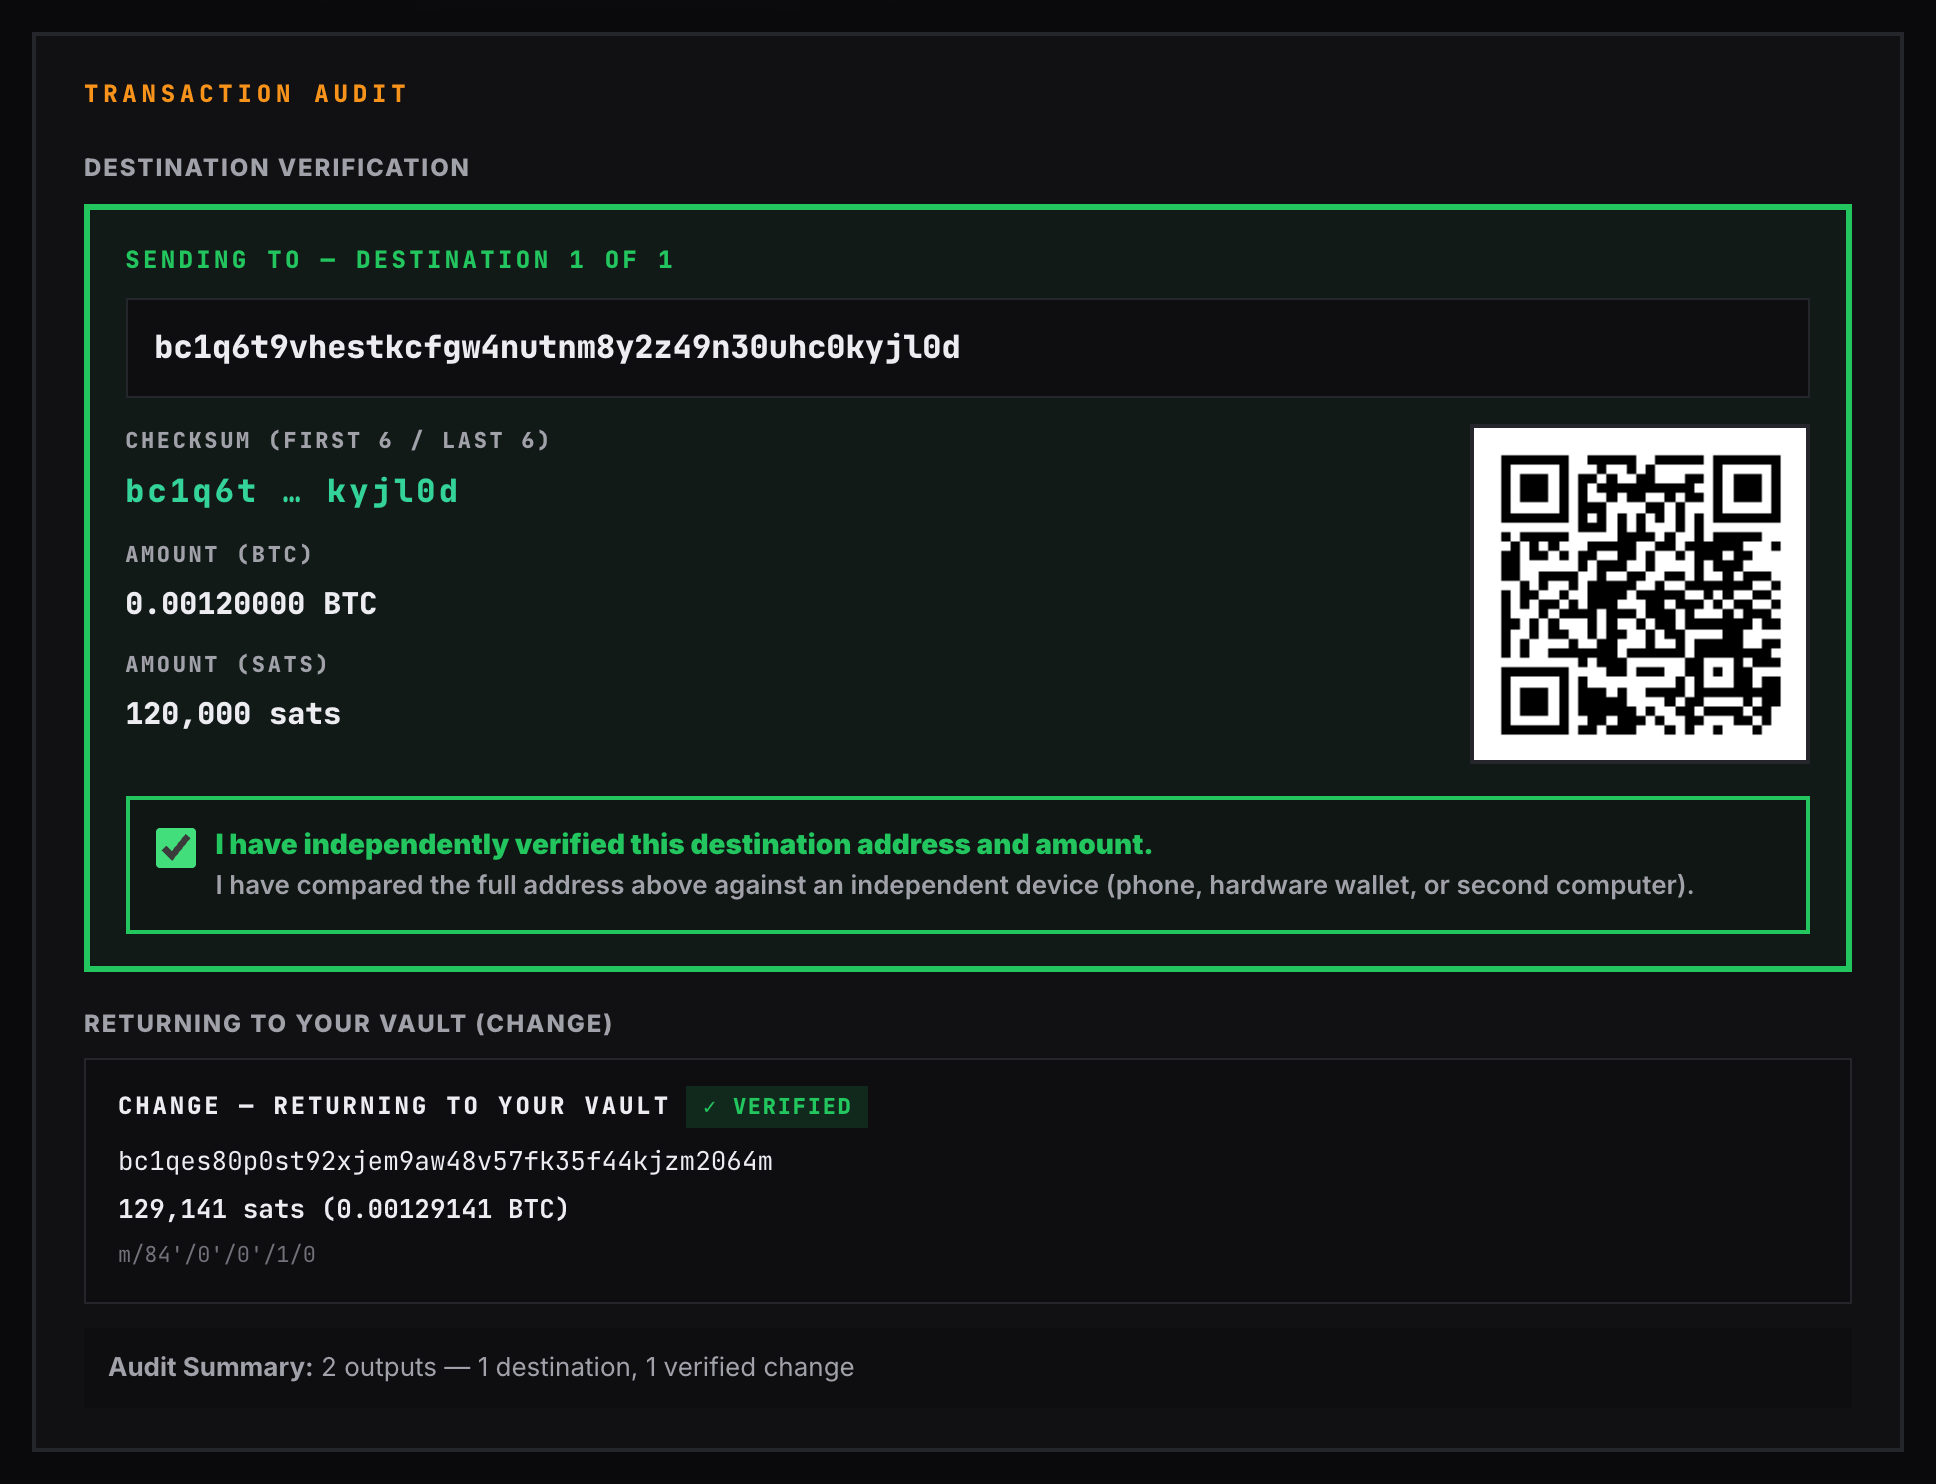
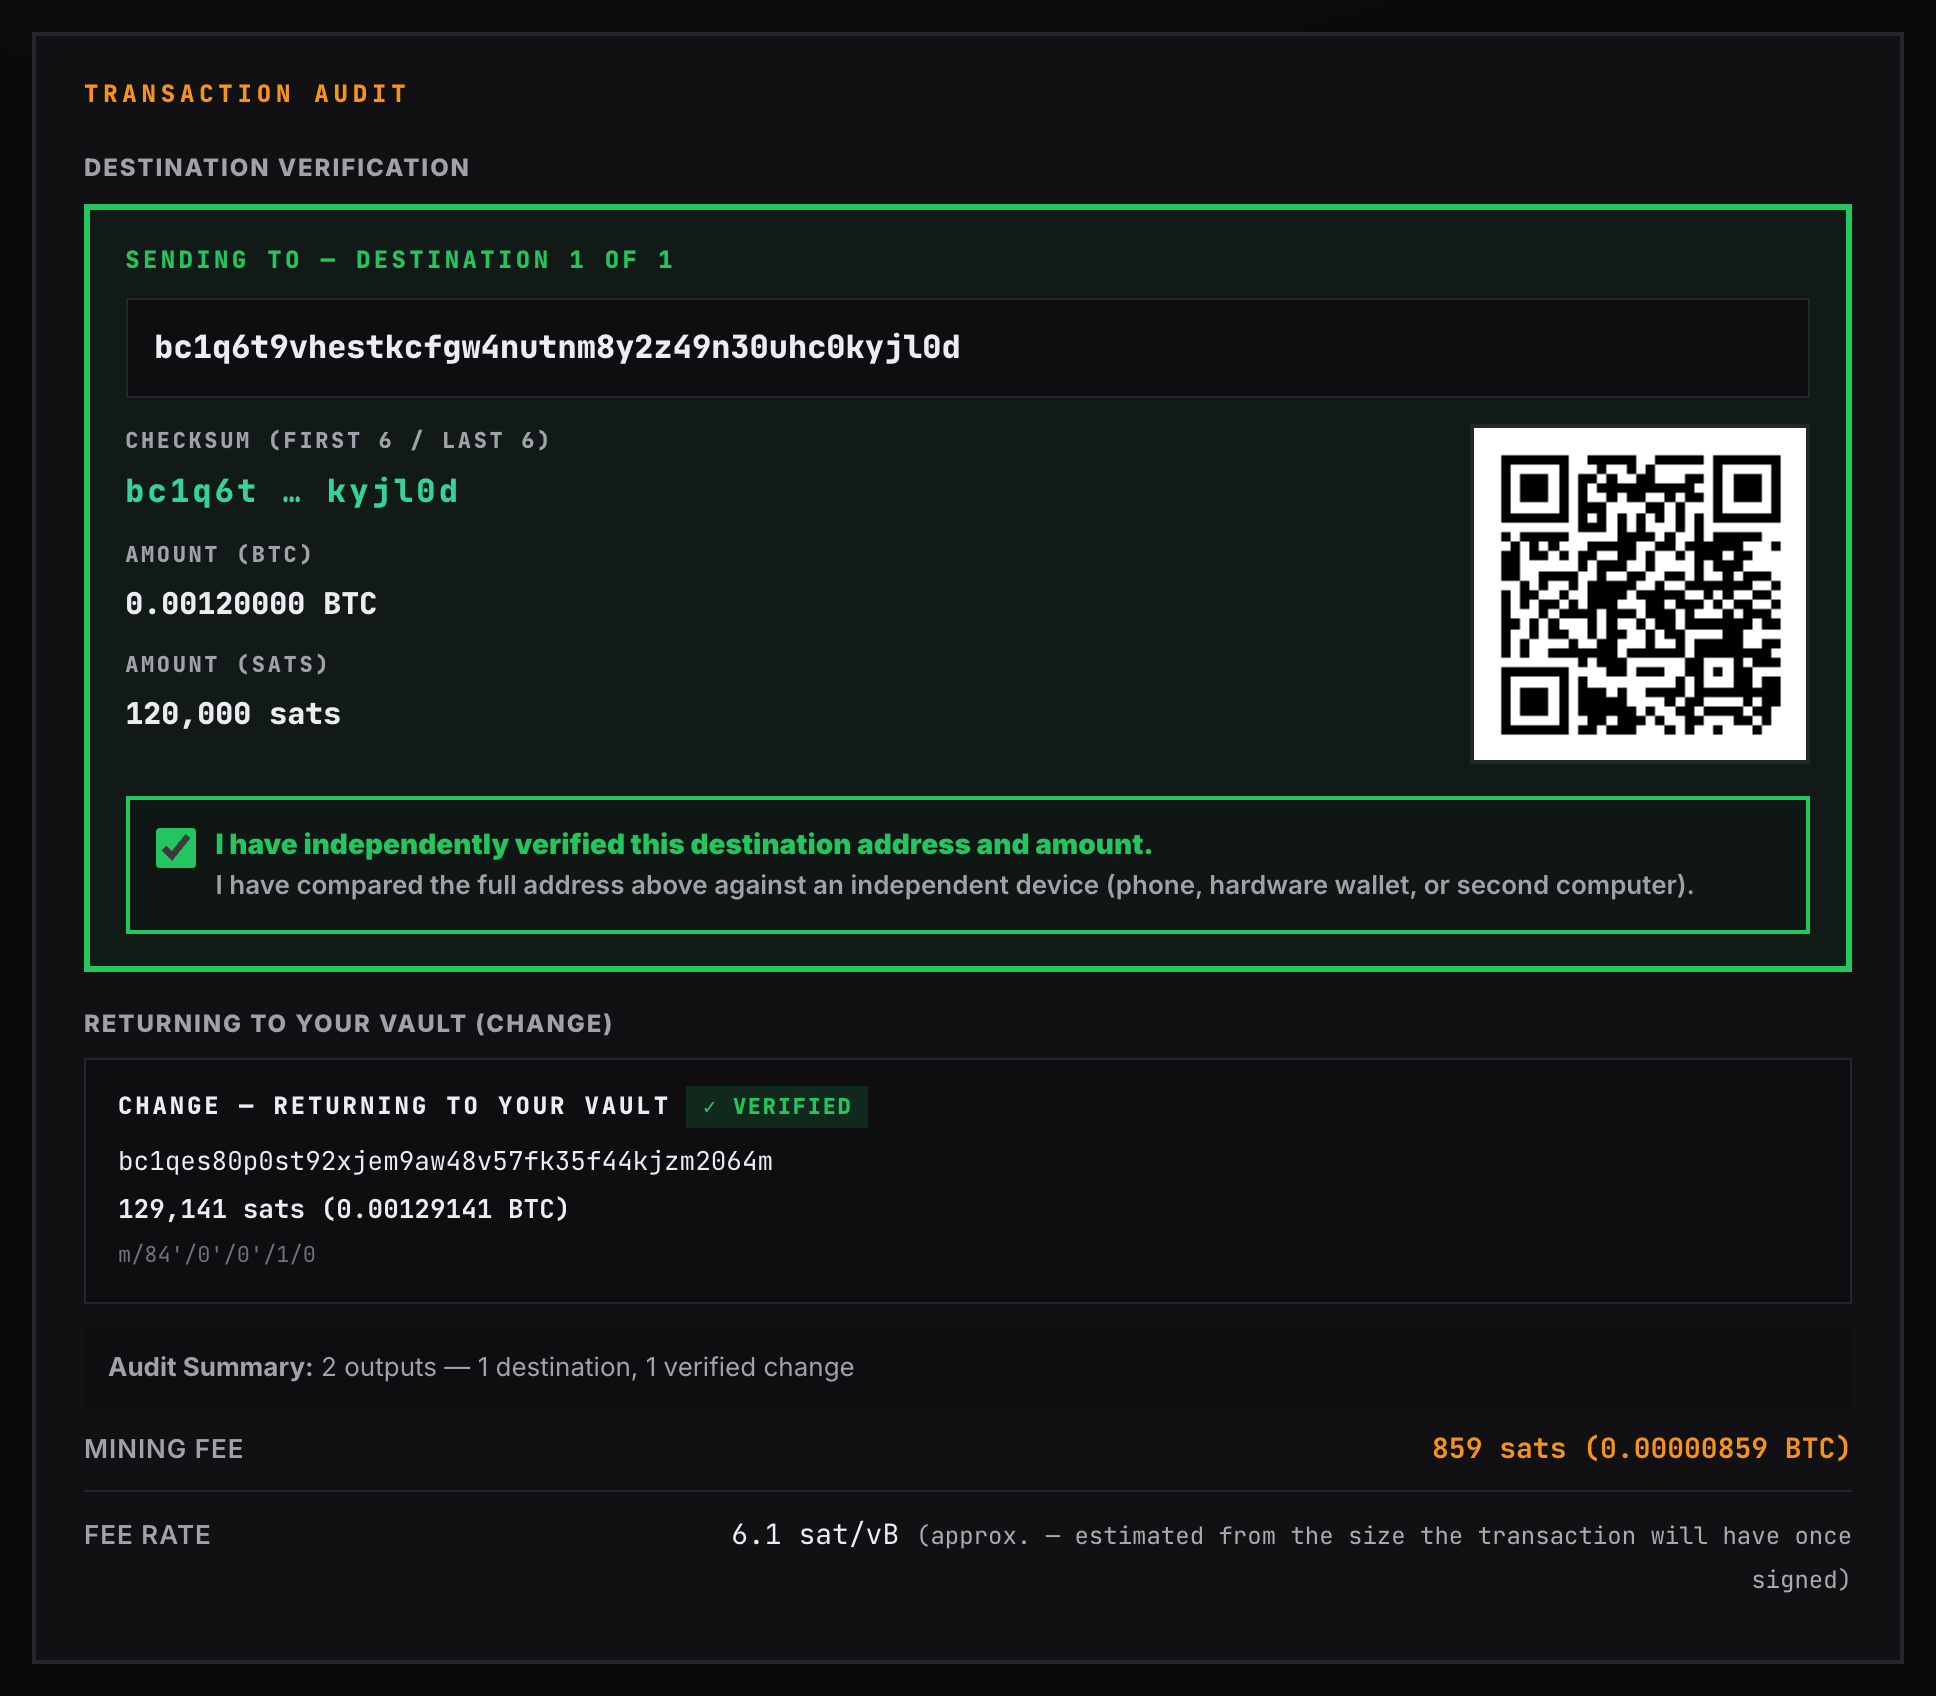
Point site at v1.35 release and refresh screenshots
Download page and home page now link the v1.35 release and its image
hash. Screenshots are retaken from v1.35, so the review card now shows
the fee rate (fixed in the app) and footers read v1.35.

diff --git a/download.html b/download.html
@@ -83,7 +83,7 @@
 
             <!-- Page hero -->
             <div class="page-hero">
-                <p class="page-hero-label">v1.34 Release</p>
+                <p class="page-hero-label">v1.35 Release</p>
                 <h1 class="page-hero-title">Download</h1>
                 <p class="page-hero-tagline">
                     Signed and verified bootable image for the latest version of <strong>SafeKeepVault</strong>. Follow the instructions below to verify your download and get set up.
@@ -102,24 +102,24 @@
 
                 <div class="download-hero-block">
                     <div class="download-primary">
-                        <a href="https://github.com/Pasalon0404/SafeKeepVault/releases/download/v1.34/SafeKeep-Release-v1.34.zip"
+                        <a href="https://github.com/Pasalon0404/SafeKeepVault/releases/download/v1.35/SafeKeep-Release-v1.35.zip"
                            class="btn-download-primary">
                             Download
                         </a>
-                        <span class="download-filesize">v1.34 &middot; SHA-256 verified</span>
+                        <span class="download-filesize">v1.35 &middot; SHA-256 verified</span>
                         <div class="sha256-block">
-                            <span class="sha256-label">SHA-256 &mdash; SafeKeep-Release-v1.34.img</span>
-                            <code class="sha256-value">fc2080e8a1c4752347748939d7f49d37c963bc59275b5ec9ed09bd1bcf0bdebe</code>
+                            <span class="sha256-label">SHA-256 &mdash; SafeKeep-Release-v1.35.img</span>
+                            <code class="sha256-value">39070c3972925a626d692a0f444618ee91d17860ed34817e3f81aab4690a0bc7</code>
                         </div>
                     </div>
 
                     <div class="download-verify-group">
                         <p class="download-verify-label">Verify your download</p>
                         <div class="download-secondary-links">
-                            <a href="https://github.com/Pasalon0404/SafeKeepVault/releases/download/v1.34/SHA256SUMS.txt">
+                            <a href="https://github.com/Pasalon0404/SafeKeepVault/releases/download/v1.35/SHA256SUMS.txt">
                                 SHA256SUMS.txt
                             </a>
-                            <a href="https://github.com/Pasalon0404/SafeKeepVault/releases/download/v1.34/SHA256SUMS.txt.asc">
+                            <a href="https://github.com/Pasalon0404/SafeKeepVault/releases/download/v1.35/SHA256SUMS.txt.asc">
                                 SHA256SUMS.txt.asc
                             </a>
                         </div>
@@ -142,14 +142,14 @@
                     <div class="download-verify-group" style="margin-top: 0.5rem;">
                         <p class="download-verify-label">Source code</p>
                         <div class="download-secondary-links">
-                            <a href="https://github.com/Pasalon0404/SafeKeepVault/archive/refs/tags/v1.34.zip">
-                                safekeep-source-v1.34.zip
+                            <a href="https://github.com/Pasalon0404/SafeKeepVault/archive/refs/tags/v1.35.zip">
+                                safekeep-source-v1.35.zip
                             </a>
                         </div>
                     </div>
 
                     <div class="download-audit-row">
-                        <a href="https://github.com/Pasalon0404/SafeKeepVault/releases/tag/v1.34"
+                        <a href="https://github.com/Pasalon0404/SafeKeepVault/releases/tag/v1.35"
                            target="_blank" rel="noopener" class="download-audit-link">
                             View release on GitHub full release notes, all assets
                         </a>
@@ -233,7 +233,7 @@
                     <div class="terminal-block">
                         <pre><span class="term-comment"># Check file hash against SHA256SUMS.txt</span>
 <span class="term-prompt">$ </span><span class="term-cmd">sha256sum --check SHA256SUMS.txt</span>
-<span class="term-comment"># Expected output: SafeKeep-Release-v1.34.img: OK</span></pre>
+<span class="term-comment"># Expected output: SafeKeep-Release-v1.35.img: OK</span></pre>
                     </div>
                     <div class="os-tabs" style="margin-top: 0.75rem;">
                         <span class="os-tab-label active">macOS</span>
@@ -241,7 +241,7 @@
                     <div class="terminal-block">
                         <pre><span class="term-comment"># Check file hash against SHA256SUMS.txt</span>
 <span class="term-prompt">$ </span><span class="term-cmd">shasum -a 256 -c SHA256SUMS.txt</span>
-<span class="term-comment"># Expected output: SafeKeep-Release-v1.34.img: OK</span></pre>
+<span class="term-comment"># Expected output: SafeKeep-Release-v1.35.img: OK</span></pre>
                     </div>
                     <p class="verify-note">
                         <strong>OK</strong> confirms the file is unmodified. <strong>FAILED</strong> means the download is corrupt or tampered with &mdash; delete it and download again.
@@ -251,7 +251,7 @@
                     </div>
                     <div class="terminal-block">
                         <pre><span class="term-comment"># Generate the file hash</span>
-<span class="term-prompt">PS </span><span class="term-cmd">Get-FileHash SafeKeep-Release-v1.34.img -Algorithm SHA256</span></pre>
+<span class="term-prompt">PS </span><span class="term-cmd">Get-FileHash SafeKeep-Release-v1.35.img -Algorithm SHA256</span></pre>
                     </div>
                     <p class="verify-note">
                         Open <code>SHA256SUMS.txt</code> in Notepad and confirm the hash matches exactly. If it doesn&rsquo;t, delete the download and start over.
@@ -279,7 +279,7 @@
                         (or <a href="https://rufus.ie/" target="_blank" rel="noopener">Rufus</a> for Windows):
                     </p>
                     <ol style="margin: 0.75rem 0 0 1.25rem; display: flex; flex-direction: column; gap: 0.4rem; font-size: 0.94rem; color: var(--text-muted); line-height: 1.6;">
-                        <li>Open the flashing utility and select the extracted <code>SafeKeep-Release-v1.34.img</code> file.</li>
+                        <li>Open the flashing utility and select the extracted <code>SafeKeep-Release-v1.35.img</code> file.</li>
                         <li>Select your target flash drive.</li>
                         <li>Click <strong>Flash</strong> and wait for the verification to complete.</li>
                     </ol>
@@ -298,7 +298,7 @@
                     </div>
                     <div class="terminal-block">
                         <pre><span class="term-comment"># Flash with dd — replace /dev/sdX with your USB device</span>
-<span class="term-prompt">$ </span><span class="term-cmd">sudo dd if=SafeKeep-Release-v1.34.img of=/dev/sdX bs=4M status=progress oflag=sync</span></pre>
+<span class="term-prompt">$ </span><span class="term-cmd">sudo dd if=SafeKeep-Release-v1.35.img of=/dev/sdX bs=4M status=progress oflag=sync</span></pre>
                     </div>
                 </div>
 

diff --git a/index.html b/index.html
@@ -115,7 +115,7 @@
                         No Blind Signing
                     </li>
                 </ul>
-                <p class="hero-meta">Verified release <strong>v1.34</strong> &middot; SHA-256 + GPG signed &middot; Runs on any x86 PC</p>
+                <p class="hero-meta">Verified release <strong>v1.35</strong> &middot; SHA-256 + GPG signed &middot; Runs on any x86 PC</p>
             </header>
 
             <!-- Section 1: Introduction -->
